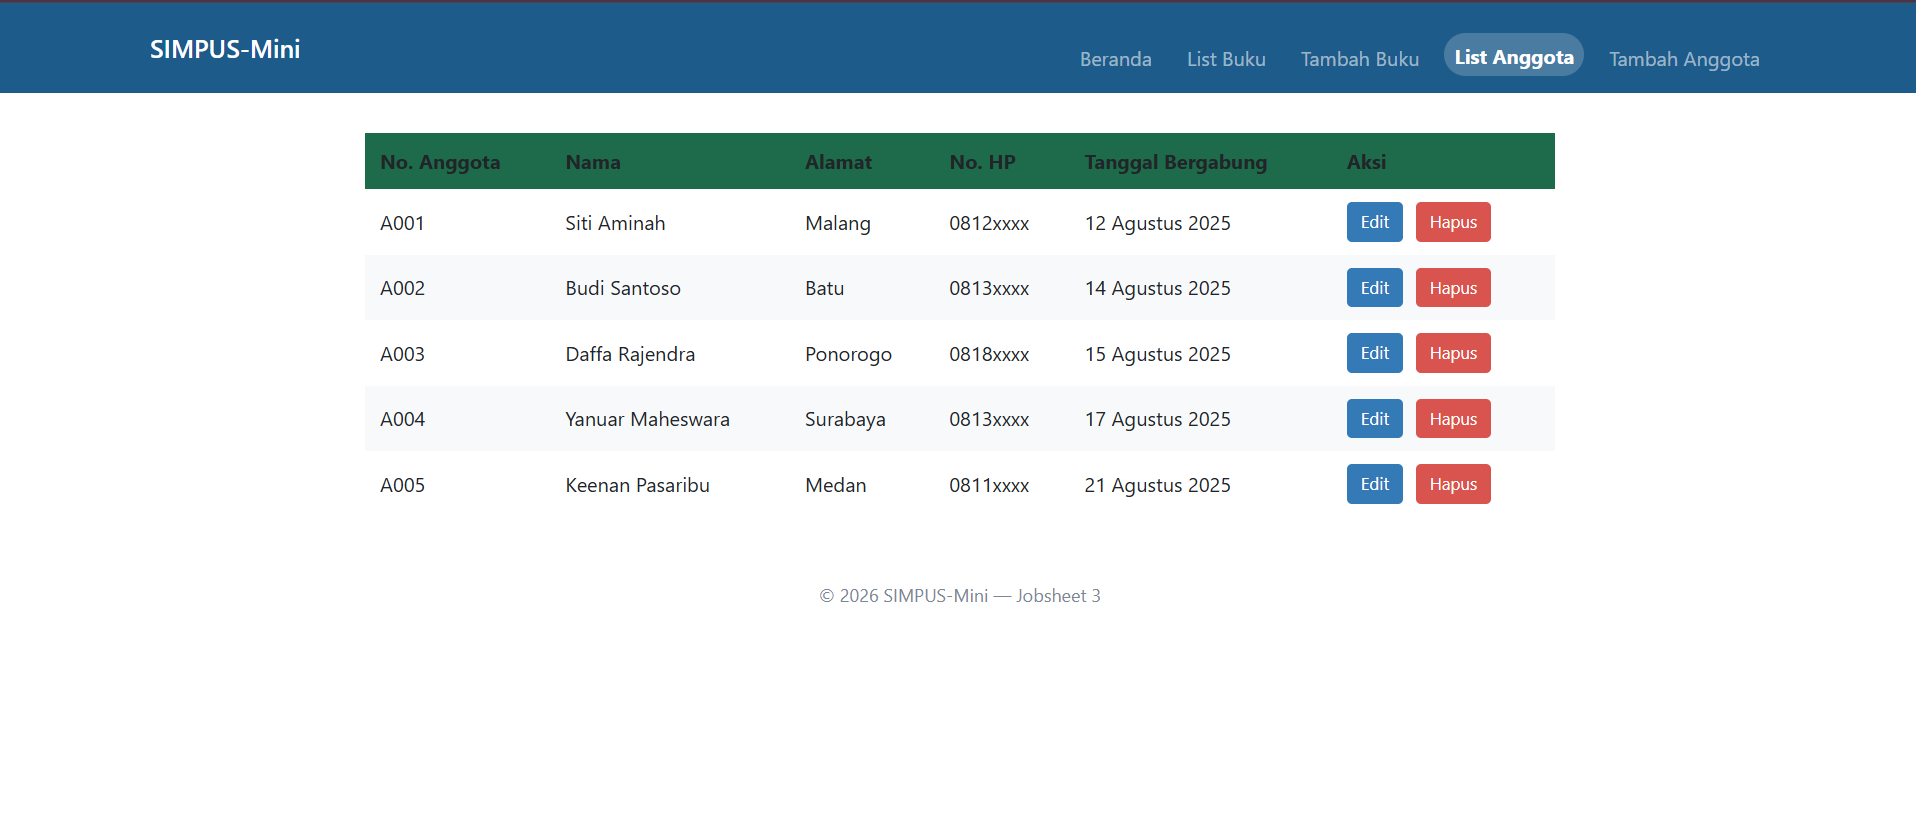
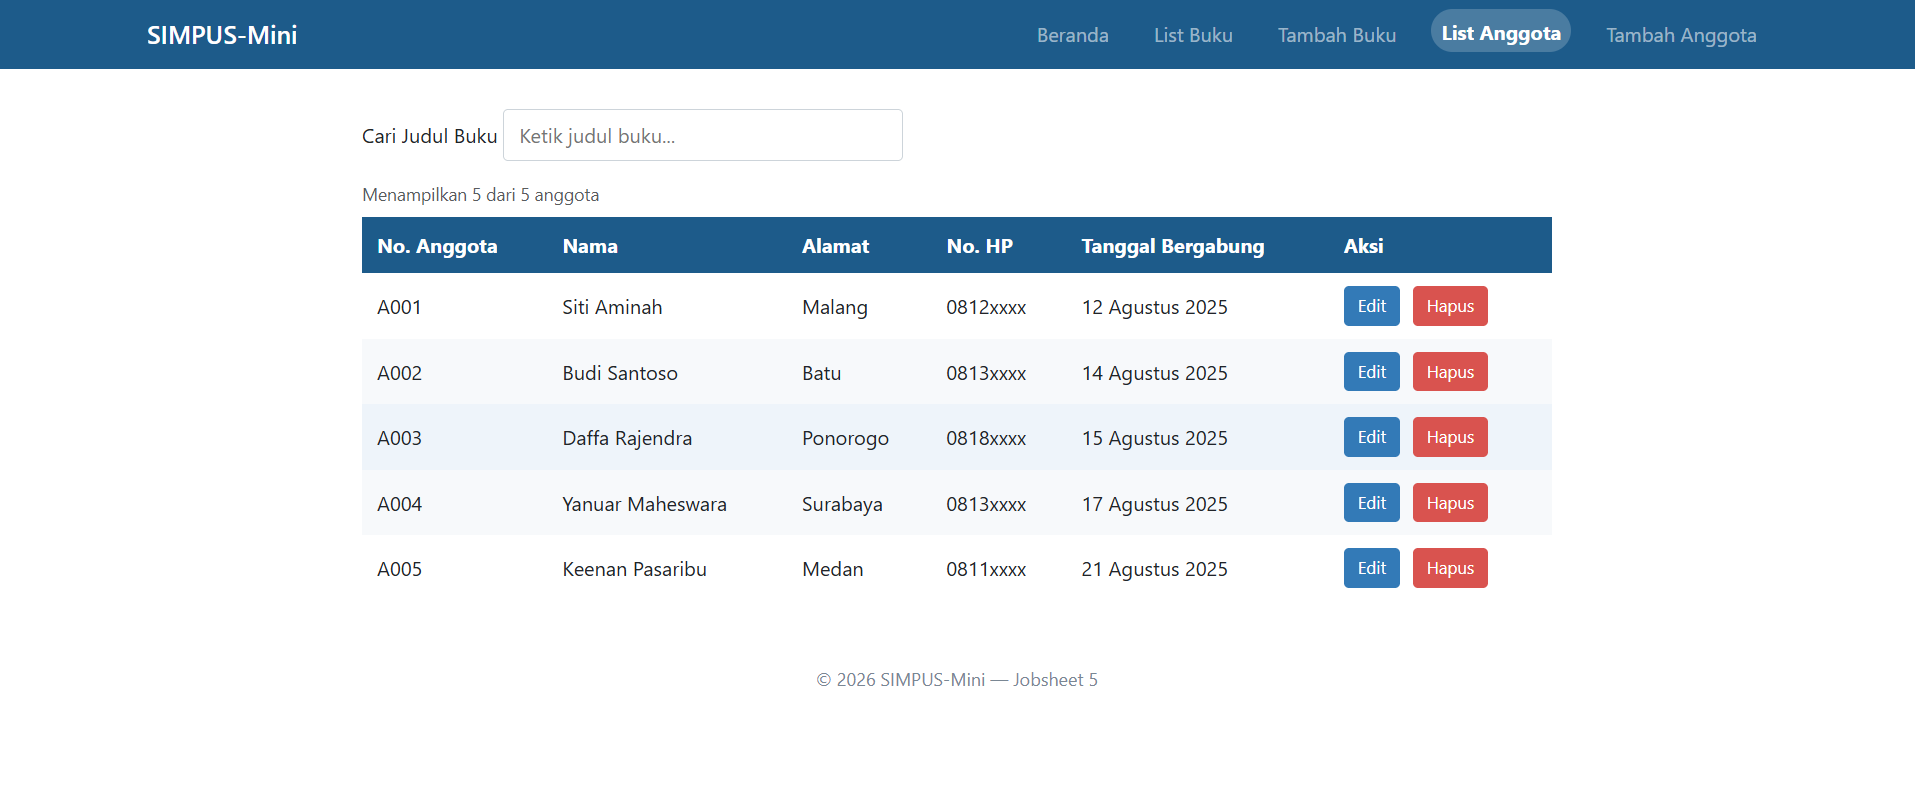
JS5_Laporan dan Dokumentasi

diff --git a/jobsheet-05/buku/tambah.html b/jobsheet-05/buku/tambah.html
@@ -64,7 +64,7 @@
     </main>
 
     <footer>
-        <p>&copy; 2026 SIMPUS-Mini &mdash; Jobsheet 3  </p>
+        <p>&copy; 2026 SIMPUS-Mini &mdash; Jobsheet 5  </p>
     </footer>
 
     <script src="https://cdn.jsdelivr.net/npm/bootstrap@5.3.3/dist/js/bootstrap.bundle.min.js"></script>

diff --git a/jobsheet-05/anggota/list.html b/jobsheet-05/anggota/list.html
@@ -105,7 +105,7 @@
     </main>
 
     <footer>
-        <p>&copy; 2026 SIMPUS-Mini &mdash; Jobsheet 3</p>
+        <p>&copy; 2026 SIMPUS-Mini &mdash; Jobsheet 5</p>
     </footer>
 
     <script src="https://cdn.jsdelivr.net/npm/bootstrap@5.3.3/dist/js/bootstrap.bundle.min.js"></script>

diff --git a/jobsheet-05/buku/list.html b/jobsheet-05/buku/list.html
@@ -124,7 +124,7 @@
     </main>
 
     <footer>
-        <p>&copy; 2026 SIMPUS-Mini &mdash; Jobsheet 3</p>
+        <p>&copy; 2026 SIMPUS-Mini &mdash; Jobsheet 5</p>
     </footer>
 
     <script src="https://cdn.jsdelivr.net/npm/bootstrap@5.3.3/dist/js/bootstrap.bundle.min.js"></script>

diff --git a/jobsheet-05/anggota/tambah.html b/jobsheet-05/anggota/tambah.html
@@ -58,7 +58,7 @@
     </main>
 
     <footer>
-        <p>&copy; 2026 SIMPUS-Mini &mdash; Jobsheet 3</p>
+        <p>&copy; 2026 SIMPUS-Mini &mdash; Jobsheet 5</p>
     </footer>
 
     <script src="https://cdn.jsdelivr.net/npm/bootstrap@5.3.3/dist/js/bootstrap.bundle.min.js"></script>

diff --git a/jobsheet-05/index.html b/jobsheet-05/index.html
@@ -68,7 +68,7 @@
     </main>
 
     <footer>
-        <p>&copy; 2026 SIMPUS-Mini &mdash; Jobsheet 3</p>
+        <p>&copy; 2026 SIMPUS-Mini &mdash; Jobsheet 5</p>
     </footer>
 
     <script src="https://cdn.jsdelivr.net/npm/bootstrap@5.3.3/dist/js/bootstrap.bundle.min.js"></script>

diff --git a/jobsheet-05/README.md b/jobsheet-05/README.md
@@ -1,8 +1,6 @@
-# Desain-Pemrograman-Web
+# Jobsheet 5 — JavaScript DOM & Event
 
-# Jobsheet 03
-
-Jobsheet ini berisi penerapan **Responsive Web Design (RWD)** pada sistem pengelolaan data buku dan anggota perpustakaan (SIMPUS-Mini), meliputi penggunaan meta viewport, media query, breakpoint, dan pendekatan desktop-first.
+Sub-CPMK: Menerapkan manipulasi DOM dan event JavaScript.
 
 ## Identitas
 
@@ -13,92 +11,119 @@ Jobsheet ini berisi penerapan **Responsive Web Design (RWD)** pada sistem pengel
 | Mata Kuliah | Desain Pemograman Web |
 | Kelas | TI - 2D |
 
-# Dokumentasi Jobsheet 3 (Versi Bootstrap)
+## Tujuan
 
-Dokumentasi ini adalah **versi alternatif** dari
-[dokumentasi jobsheet-03](../../jobsheet-03/Dokumentasi/README.md) yang
-memakai CSS murni (hand-written CSS). Fungsionalitas dan halamannya
-**identik** — Beranda, Daftar Buku, Tambah Buku, Daftar Anggota, Tambah
-Anggota — tapi seluruh tata letak dan komponen visualnya dibangun ulang
-memakai **framework CSS Bootstrap 5**, bukan CSS custom dari nol.
+Menghidupkan halaman-halaman SIMPUS-Mini dengan JavaScript di sisi client: menu hamburger, validasi form, pencarian tabel, dan konfirmasi hapus. Semua berjalan di browser tanpa server atau database.
 
-Kalau kamu belum paham konsep responsive design dasar (viewport, media
-query, breakpoint), baca dulu
-[bab 1 dokumentasi jobsheet-03 asli](../../jobsheet-03/Dokumentasi/01-konsep-dasar-responsive.md)
-karena dokumentasi ini akan sering membandingkan "cara CSS murni" vs
-"cara Bootstrap" untuk menyelesaikan masalah yang sama.
+## Perubahan dari Jobsheet 4
 
-## Kenapa Ada Dua Versi?
+- Ditambahkan `assets/js/app.js` dan dihubungkan ke semua halaman lewat `<script src="...app.js">`.
+- Hamburger menu digerakkan oleh JavaScript (event `click` dan `classList.toggle`).
+- Form Tambah Buku dan Tambah Anggota diberi validasi client-side dengan pesan error inline.
+- Halaman Daftar Buku dan Daftar Anggota diberi kolom pencarian real-time, counter jumlah baris, dan konfirmasi hapus.
+- Aturan CSS hamburger lama (checkbox hack) dihapus dari `style.css`, diganti animasi geser untuk menu.
 
-Tujuannya supaya kamu bisa membandingkan langsung **dua pendekatan** untuk
-mencapai hasil visual yang mirip:
+## Fitur yang Dibuat
 
-| | Jobsheet 3 (CSS Murni) | Jobsheet 3 (Bootstrap) |
+### 1. Hamburger menu
+Tombol `#nav-toggle-btn` memiliki event `click` yang menambah atau menghapus class `show` pada menu `#navMenu`. Karena halaman memakai navbar Bootstrap, class `show` adalah class yang dikenali Bootstrap untuk menampilkan menu. Atribut `data-bs-toggle` dan `data-bs-target` pada tombol dihapus supaya Bootstrap tidak ikut men-toggle dan bertabrakan dengan JavaScript.
+
+### 2. Validasi form Tambah Buku dan Tambah Anggota
+- Form diberi `id="form-tambah"` dan atribut `novalidate` agar validasi bawaan browser tidak mendahului pesan error dari JavaScript.
+- Pesan error dibuat lewat DOM (`createElement("span")` dan `insertAdjacentElement`) di bawah field yang salah, dan dihapus saat field sudah benar.
+- Kursor otomatis pindah ke field pertama yang salah, dan form tidak terkirim (`preventDefault`) selama masih ada error. Semua berjalan tanpa reload halaman.
+
+| Form | Field | Aturan |
 |---|---|---|
-| Layout | `display: flex`, `display: grid` ditulis manual | `.row` / `.col-*` (grid 12 kolom Bootstrap) |
-| Navbar & hamburger | Checkbox hack (`:checked` + sibling combinator `~`) | Komponen `.navbar` bawaan + sedikit JavaScript Bootstrap |
-| Kartu | `<section>` + CSS custom (`border-radius`, `box-shadow` manual) | Komponen `.card` bawaan |
-| Tabel | `<table>` + CSS custom (`nth-child`, `:hover`) | Class utility `.table`, `.table-striped`, `.table-hover` |
-| Form | `<input>`/`<select>` + CSS custom | Class utility `.form-control`, `.form-select`, `.form-label` |
-| Breakpoint | Ditulis sendiri (`768px`, `480px`) | Bawaan Bootstrap (`sm`, `md`, `lg`, `xl`, `xxl`) |
-| Total baris CSS custom | ~245 baris (`style.css`) | ~15 baris (`style.css`) |
+| Buku | Judul, Pengarang | Wajib diisi |
+| Buku | Tahun terbit | Bilangan bulat, 1900 sampai tahun berjalan |
+| Buku | ISBN | Wajib, hanya angka dan tanda hubung (-) |
+| Buku | Stok | Bilangan bulat, tidak boleh negatif |
+| Anggota | Nama, No. Anggota, Alamat | Wajib diisi |
+| Anggota | No. HP | Wajib, 8-15 karakter (angka, +, -) |
+| Anggota | Email | Wajib, format email valid |
 
-Intinya: **hasil akhirnya bisa mirip, tapi cara mencapainya sangat
-berbeda.** CSS murni memberi kontrol penuh tapi butuh menulis semua
-aturan sendiri; Bootstrap memberi banyak komponen & utility class siap
-pakai, dengan konsekuensi harus memuat file CSS/JS tambahan dan mengikuti
-konvensi nama class-nya.
+### 3. Pencarian tabel real-time
+Kolom cari (`#search-input`) menyaring baris tabel setiap kali ada ketikan (event `keyup`) dengan mengatur `style.display`. Pencarian hanya membaca kolom **Judul** (buku) atau **Nama** (anggota), bukan seluruh teks baris.
 
-## Daftar Isi
+### 4. Konfirmasi hapus
+Tombol Hapus (`.btn-hapus`) menampilkan dialog `confirm()` yang menyebut judul atau nama data. Jika dikonfirmasi, baris dihapus dari tampilan. Penghapusan ini belum ke server, jadi data muncul kembali setelah halaman dimuat ulang.
 
-1. [Konsep Dasar Bootstrap](01-konsep-dasar-bootstrap.md)
-2. [Apa yang Berubah di File HTML?](02-perubahan-file-html.md)
-3. [Navbar Responsif ala Bootstrap](03-navbar-responsive-bootstrap.md)
-4. [Grid System & Komponen Card](04-grid-dan-card.md)
-5. [Tabel & Form dengan Utility Class Bootstrap](05-tabel-dan-form-bootstrap.md)
-6. [Rangkuman & Perbandingan dengan CSS Murni](06-rangkuman-dan-perbandingan.md)
+### 5. Tugas mandiri: halaman Anggota
+Validasi (form Tambah Anggota) dan pencarian (Daftar Anggota) yang sama diterapkan pada halaman Anggota. Satu file `app.js` dipakai bersama oleh semua halaman.
+
+## Ide Latihan Tambahan (8.4)
+
+| # | Latihan | Hasil |
+|---|---|---|
+| 1 | Validasi field ISBN | ISBN hanya menerima angka dan tanda hubung |
+| 2 | Animasi menu hamburger | Menu bergeser halus (transisi `max-height` dan `opacity` di `style.css`) |
+| 3 | Pencarian satu kolom | Pencarian hanya pada kolom Judul/Nama lewat `row.cells[idx]` |
+| 4 | Counter baris | Teks "Menampilkan X dari Y buku/anggota" di atas tabel, diperbarui saat mencari dan menghapus |
+| 5 | Refactor validasi | Aturan field disimpan dalam array `ATURAN` dan divalidasi dengan `forEach`, tanpa blok `if` per field |
+
+## File yang Diubah
+
+| File | Perubahan |
+|---|---|
+| `assets/js/app.js` | Baru: hamburger, validasi, pencarian, counter, konfirmasi hapus |
+| `assets/css/style.css` | Hapus aturan hamburger checkbox hack, tambah animasi menu, `.error`, `.search-box` |
+| Semua HTML | Tombol hamburger ber-`id="nav-toggle-btn"`, script `app.js` terpasang, footer jadi Jobsheet 5 |
+| `buku/list.html`, `anggota/list.html` | Kolom cari `#search-input`, tombol Hapus ber-class `btn-hapus` |
+| `buku/tambah.html`, `anggota/tambah.html` | `<form id="form-tambah" novalidate>` |
 
 ## Struktur Folder
 
 ```
-jobsheet-03-bootstrap/
-├── index.html              # Beranda
-├── assets/
-│   └── css/
-│       └── style.css       # Override kecil di atas Bootstrap (~15 baris)
-├── buku/
-│   ├── list.html
-│   └── tambah.html
+jobsheet-05/
 ├── anggota/
 │   ├── list.html
 │   └── tambah.html
-└── Dokumentasi/             # Folder dokumentasi ini
+├── assets/
+│   ├── css/
+│   │   └── style.css
+│   └── js/
+│       └── app.js
+├── buku/
+│   ├── list.html
+│   └── tambah.html
+├── docs/
+│   └── wireframe.md
+├── dokumentasi/            # Screenshot hasil
+├── index.html
+└── README.md
 ```
 
-## Konsep yang Dipelajari
+## Cara Menjalankan dan Menguji
 
-### 1. Responsive Web Design (RWD) dengan Framework
-Pendekatan membangun halaman web agar tata letaknya menyesuaikan diri secara otomatis dengan lebar layar perangkat (HP, tablet, laptop, monitor besar) menggunakan satu file HTML yang sama. Pada jobsheet ini, penyesuaian tersebut tidak ditulis manual lewat CSS, melainkan memanfaatkan framework **Bootstrap 5** yang sudah menyediakan sistem grid dan komponen siap pakai.
+Buka `index.html` di browser, lalu coba:
 
-### 2. Pendekatan Mobile-First Bootstrap
-Berbeda dengan pendekatan desktop-first (menulis gaya besar dulu, lalu ditimpa media query untuk layar kecil), Bootstrap menganut strategi **mobile-first**: gaya default suatu elemen berlaku untuk layar kecil, lalu ditambahkan class breakpoint (`md-`, `lg-`, `xl-`) untuk mengubah tampilan saat layar melebar. Contohnya class `col-12 col-md-3` — secara default elemen mengambil 12 kolom (penuh) di layar kecil, lalu berubah menjadi 3 kolom saat lebar layar mencapai breakpoint `md` (≥768px) ke atas.
+1. Buka **Tambah Buku** atau **Tambah Anggota**, kirim form kosong: pesan error muncul di bawah tiap field tanpa reload.
+2. Isi ISBN dengan huruf (misalnya "ABC-123"): muncul pesan bahwa ISBN hanya boleh angka dan tanda hubung.
+3. Buka **List Buku** atau **List Anggota**, ketik di kolom cari: tabel tersaring dan counter berubah.
+4. Klik **Hapus**: muncul dialog konfirmasi, baris hilang jika dikonfirmasi, dan counter berkurang.
+5. Kecilkan jendela browser di bawah 992px, lalu klik tombol ☰: menu terbuka dan tertutup dengan efek geser.
+6. Buka Console browser (**F12**) dan pastikan tidak ada error.
 
-### 3. Grid System Bootstrap
-Bootstrap membagi lebar halaman menjadi 12 kolom virtual melalui kombinasi class `container`, `row`, dan `col-*`. Jumlah kolom yang diambil suatu elemen (misalnya `col-md-3` berarti 3 dari 12 kolom, atau seperempat lebar layar) menentukan berapa banyak elemen sejenis yang muat sejajar dalam satu baris pada breakpoint tersebut.
+<!--
+## Dokumentasi (Screenshot)
 
-### 4. Breakpoint
-Bootstrap menyediakan beberapa titik lebar layar standar (breakpoint) yang otomatis mengubah perilaku class grid dan utility, yaitu `sm` (≥576px), `md` (≥768px), `lg` (≥992px), `xl` (≥1200px), dan `xxl` (≥1400px). Class yang tidak diberi akhiran breakpoint (misal `col-12`) berlaku untuk semua ukuran layar sebagai nilai dasar.
+Aktifkan bagian ini setelah screenshot terbaru diambil (hapus tanda komentar di atas
+dan di bawah), lalu pastikan nama file sesuai isi folder dokumentasi/.
 
-### 5. Utility Classes
-Bootstrap menyediakan class-class kecil siap pakai untuk mengatur spacing, warna, tipografi, dan tata letak tanpa perlu menulis CSS kustom, misalnya `mb-3` (margin bawah), `p-3` (padding), `text-center` (rata tengah), `fw-bold` (tebal), dan `shadow-sm` (bayangan tipis). Pendekatan ini mengurangi kebutuhan menulis selector CSS manual untuk styling yang bersifat umum.
+### Pesan error validasi
+![Validasi Tambah Buku](dokumentasi/validasi-tambahbuku.png)
 
-### 6. Navbar Responsif (Collapse Component)
-Komponen `navbar` dari Bootstrap secara otomatis berubah dari tampilan horizontal (di layar besar) menjadi menu hamburger yang dapat dibuka-tutup (di layar kecil) melalui atribut `data-bs-toggle="collapse"` dan `data-bs-target`, tanpa perlu menulis JavaScript sendiri — cukup memuat file `bootstrap.bundle.min.js`.
+### Pencarian dan counter
+![Pencarian Daftar Buku](dokumentasi/cari-listbuku.png)
 
-### 7. Komponen Siap Pakai (Card, Form Control)
-Bootstrap menyediakan komponen visual siap pakai seperti `card` untuk mengelompokkan konten dalam kotak dengan bayangan dan padding konsisten, serta class form seperti `form-control`, `form-label`, `form-select`, dan `btn btn-primary` yang membuat elemen form (input, label, select, tombol) memiliki tampilan seragam tanpa perlu styling manual satu per satu.
+### Konfirmasi hapus
+![Konfirmasi Hapus](dokumentasi/konfirmasi-hapus.png)
 
+### Menu hamburger (tampilan mobile)
+![Hamburger](dokumentasi/hamburger.png)
+-->
 
-## Cara Menjalankan
+## Kesimpulan
 
-Buka file `index.html` melalui browser, lalu coba ubah ukuran jendela browser (atau buka lewat DevTools mode responsive) untuk melihat perubahan tampilan di breakpoint tablet dan mobile.
+Dengan JavaScript, halaman yang sebelumnya statis menjadi interaktif: pengguna mendapat umpan balik langsung saat mengisi form, dapat mencari data tanpa memuat ulang halaman, dan diminta konfirmasi sebelum menghapus. Pola yang dipakai, yaitu memilih elemen lewat id atau class, memasang event listener, lalu mengubah DOM, akan dipakai kembali pada jobsheet berikutnya ketika data diambil dari server.
